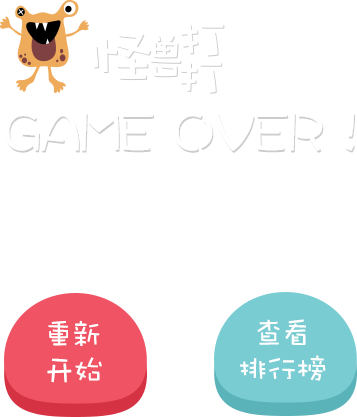
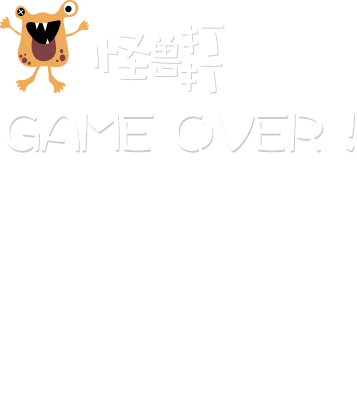
update

Changed region(s): [[0.0, 0.6859, 0.4314, 1.0], [0.5854, 0.6859, 1.0, 0.9976]]

diff --git a/Uranus/game.html b/Uranus/game.html
@@ -24,16 +24,12 @@
             </ul>
         </div>
         <!--准备-->
-        <div class="phase">
-            准备页
+        <div class="checkin phase">
+            <p class="label" style="padding-top:250px;color:#FFF;font-size:80px;">Hello, <span id="player"></span></p>
         </div>
         <!--倒计时-->
         <div class="checkin phase">
-            <p class="showColor" style="position: absolute;top:0;left:0;">
-                <span id="colorSpan" style="width:16px;height:16px;display:inline-block;"></span>
-                <span id="colorName"></span>
-            </p>
-            <p class="label">倒计时：</p>
+            <p class="label"></p>
             <p class="id"></p>
             <span id="CountDown" class="countdown">5</span>
         </div>
@@ -114,26 +110,6 @@
         <!--游戏结束-->
         <div class="game-over phase">
             <span id="endScore">0</span>
-            <a class="restart" href="javascript:void(0)"></a>
-            <a class="board" href="javascript:void(0)"></a>
-            <div class="recruit">
-                <div class="f2e">
-                    <p class="email">xiaoma@taobao.com</p>
-                    <p class="leader">前端，找小马</p>
-                </div>
-                <div class="designer">
-                    <p class="email">youxian@taobao.com</p>
-                    <p class="leader">设计，找游仙</p>
-                </div>
-            </div>
-            <div class="loading3" data-no='3'></div>
-        </div>
-
-        <!--积分排行榜-->
-        <div class="rank phase">
-            <div class="loading4" data-no='4'></div>
-            <ul></ul>
-            <a href="javascript:void(0)"></a>
         </div>
     </div>
 

diff --git a/Uranus/scripts/listener.js b/Uranus/scripts/listener.js
@@ -30,6 +30,7 @@ KISSY.add(function (S) {
             var self = this;
             socket.on('ready', function(data){
                 // 准备事件，显示登录页面，其中名字是 data['name' + player]
+                $("#player").html(data["name"+player]);
                 self.game.restart();
             });
 

diff --git a/Uranus/styles/game.css b/Uranus/styles/game.css
@@ -325,7 +325,9 @@ body {
 /* line 269, ../sass/game.scss */
 .game-over {
   background: url(../images/g_gameover.png) no-repeat center top;
-  position: relative; }
+  position: relative;
+  margin: 100px 0 0 50px;
+}
   /* line 272, ../sass/game.scss */
   .game-over span {
     position: absolute;
